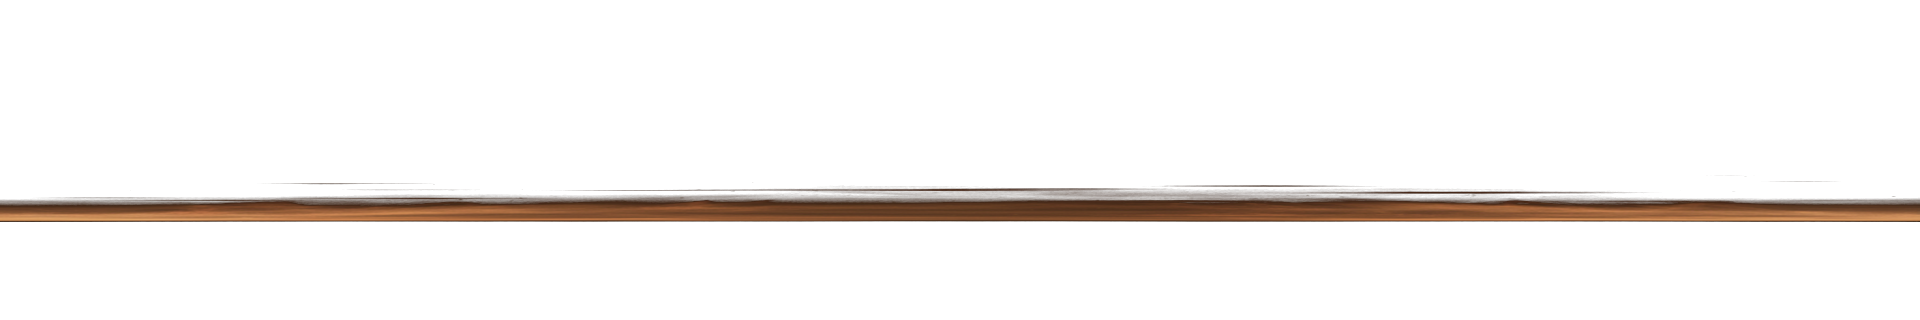
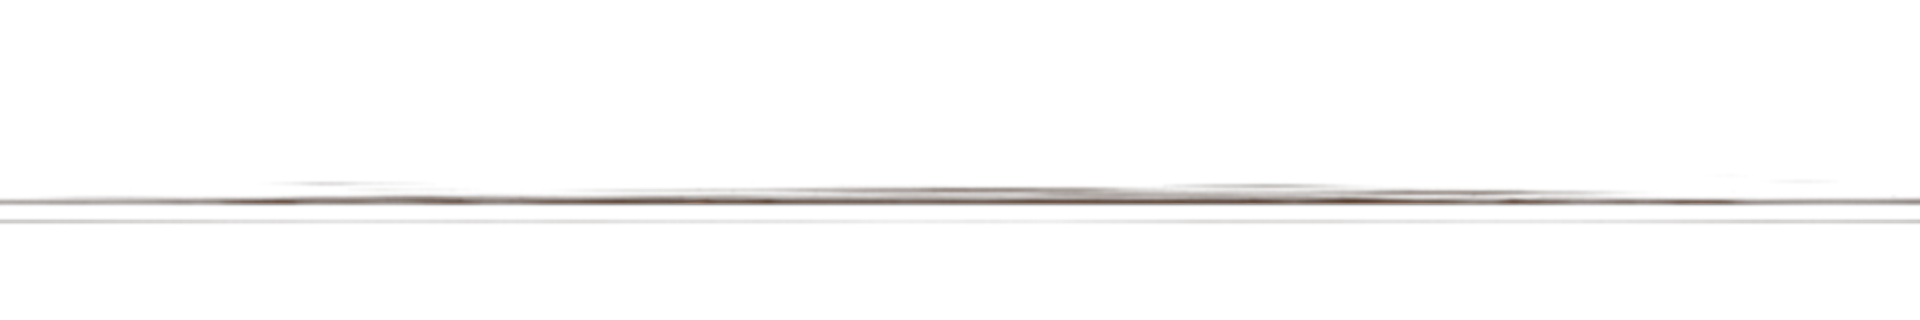
VULCAN: Fix cloud sprite — 17 solid opaque rows were causing all 3 bands
Root cause: cloud asset asset_0293.png had 17 fully opaque rows (y=204-220)
across the entire 1920px width. All 3 cloud layers (FAR/MID/NEAR) used this
same broken sprite, drawing it at 65-80% alpha — creating 3 visible horizontal
bands across the canvas.

Fix: zeroed alpha on all 17 solid rows + applied Gaussian blur to smooth edges.
Also removed debug overlay from HTML.

Changed region(s): [[0.0, 0.5625, 1.0, 0.7188], [0.625, 0.5625, 0.6875, 0.5938]]

diff --git a/StarTroopLevelEditor_VULCAN_slim.html b/StarTroopLevelEditor_VULCAN_slim.html
@@ -2280,9 +2280,22 @@ function drawClouds(ctx, W, tY, camX, t, zoom) {
       ctx.drawImage(img, x, dy, dw, dh);
     }
 
-    // ── 2. Tint pass REMOVED — was drawing fillRect across entire width,
-    // creating visible horizontal bands in the sky. Clouds have their own
-    // color from PNG + night overlay handles darkening.
+    // ── 2. Subtle tint pass — draw tinted rect OVER the cloud band (source-over)
+    // No offscreen canvas — just a semi-transparent rect clipped to cloud band.
+    // Cloud PNGs have transparent backgrounds so the rect only tints sky, not
+    // "cloud pixels" directly, but the effect reads the same at these low alphas.
+    if(d > 0.15) {
+      // Night: cold blue wash over cloud band
+      ctx.globalAlpha = Math.min(0.14, moonlitBoost * 0.25);
+      ctx.fillStyle = 'rgba(80,110,200,1)';
+      ctx.fillRect(0, dy, W, dh);
+    }
+    if(duskF > 0.15) {
+      // Dusk/dawn: warm amber at horizon band only
+      ctx.globalAlpha = Math.min(0.12, duskBoost * 0.4);
+      ctx.fillStyle = 'rgba(200,80,10,1)';
+      ctx.fillRect(0, dy, W, dh);
+    }
 
     ctx.restore();
   }
